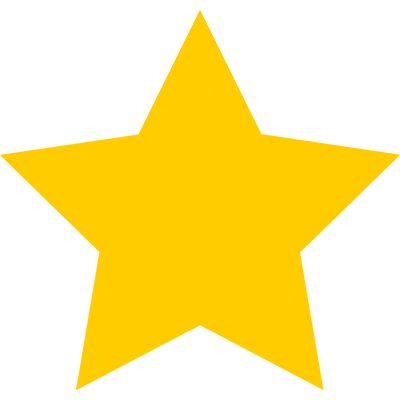
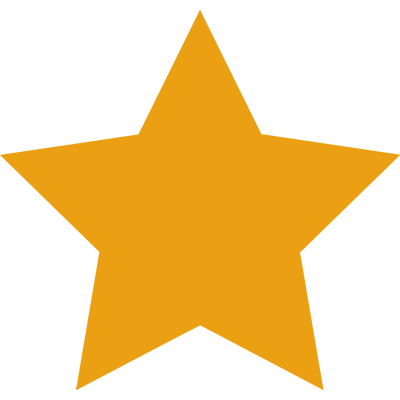
Fixed colors

diff --git a/src/components/contact/contact.css b/src/components/contact/contact.css
@@ -18,7 +18,7 @@
   height: 50px;
   margin-bottom: 40px;
   font-family: "Passion One";
-  font-size: 30px;
+  font-size: 25px;
 }
 
 .contact textarea {
@@ -26,20 +26,20 @@
   height: 200px;
   margin-bottom: 40px;
   font-family: "Passion One";
-  font-size: 30px;
+  font-size: 25px;
 }
 
 .contact button {
-  width: 200px;
-  height: 50px;
+  width: 250px;
+  height: 70px;
   font-family: "Passion One";
-  font-size: 25px;
+  font-size: 30px;
   border: none;
-  background-color: rgb(74, 135, 248);
+  background-color: rgb(235, 159, 19);
   transition: background-color 0.5s;
 }
 
 .contact button:hover {
   cursor: pointer;
-  background-color: rgb(105, 155, 248);
+  background-color: rgb(247, 201, 52);
 }

diff --git a/src/components/localisation/localisation.css b/src/components/localisation/localisation.css
@@ -3,7 +3,7 @@
   display: flex;
   justify-content: space-evenly;
   align-items: center;
-  background-color: rgb(74, 135, 248);
+  background-color: #eb9f13;
 }
 
 .localisation-text {
@@ -21,14 +21,14 @@
 .localisation-text h2 {
   margin: 0;
   font-size: 70px;
-  text-shadow: 4px 4px 6px #000000;
+  text-shadow: 3px 3px 0px #000000;
 }
 
 .localisation-text p {
   margin: 0;
   margin-bottom: 50px;
   font-size: 40px;
-  text-shadow: 4px 4px 6px #000000;
+  text-shadow: 3px 3px 0px #000000;
 }
 
 .localisation-text span {
@@ -37,7 +37,7 @@
 
 .localisation-text label {
   font-size: 40px;
-  text-shadow: 4px 4px 6px #000000;
+  text-shadow: 3px 3px 0px #000000;
 }
 
 .localisation-text-input {

diff --git a/src/components/header/header.css b/src/components/header/header.css
@@ -15,7 +15,11 @@
   display: flex;
   justify-content: space-between;
   align-items: center;
-  background-color: rgb(74, 135, 248);
+  background-color: rgb(235, 159, 19);
+}
+
+.header .logo {
+  width: 550px;
 }
 
 .header nav {
@@ -30,12 +34,12 @@
   font-family: "Passion One";
   font-size: 35px;
   border: none;
-  background-color: rgb(74, 135, 248);
+  background-color: rgb(235, 159, 19);
   transition: background-color 1s;
 }
 
 .header button:hover {
   height: 100%;
   cursor: pointer;
-  background-color: rgb(105, 155, 248);
+  background-color: rgb(247, 201, 52);
 }

diff --git a/src/components/index/index.css b/src/components/index/index.css
@@ -13,7 +13,7 @@
   margin: 0;
   font-size: 80px;
   color: white;
-  text-shadow: 4px 4px 6px #000000;
+  text-shadow: 4px 4px 0px #000000;
 }
 
 .banner ul {
@@ -35,5 +35,5 @@
 
 .banner img {
   width: 80px;
-  filter: drop-shadow(3px 3px 4px #000000);
+  filter: drop-shadow(4px 4px 0px #000000);
 }

diff --git a/src/components/footer/footer.css b/src/components/footer/footer.css
@@ -1,6 +1,6 @@
 .footer {
-  height: 200px;
-  background-color: rgb(74, 135, 248);
+  height: 250px;
+  background-color: rgb(235, 159, 19);
   font-family: "Passion One";
 }
 

diff --git a/src/components/advices/advices.css b/src/components/advices/advices.css
@@ -5,9 +5,8 @@
 
 .advices h2 {
   margin: 20px 0px 20px 50px;
-  color: white;
+  color: black;
   font-size: 70px;
-  text-shadow: 4px 4px 6px #000000;
 }
 
 .advices-cards {
